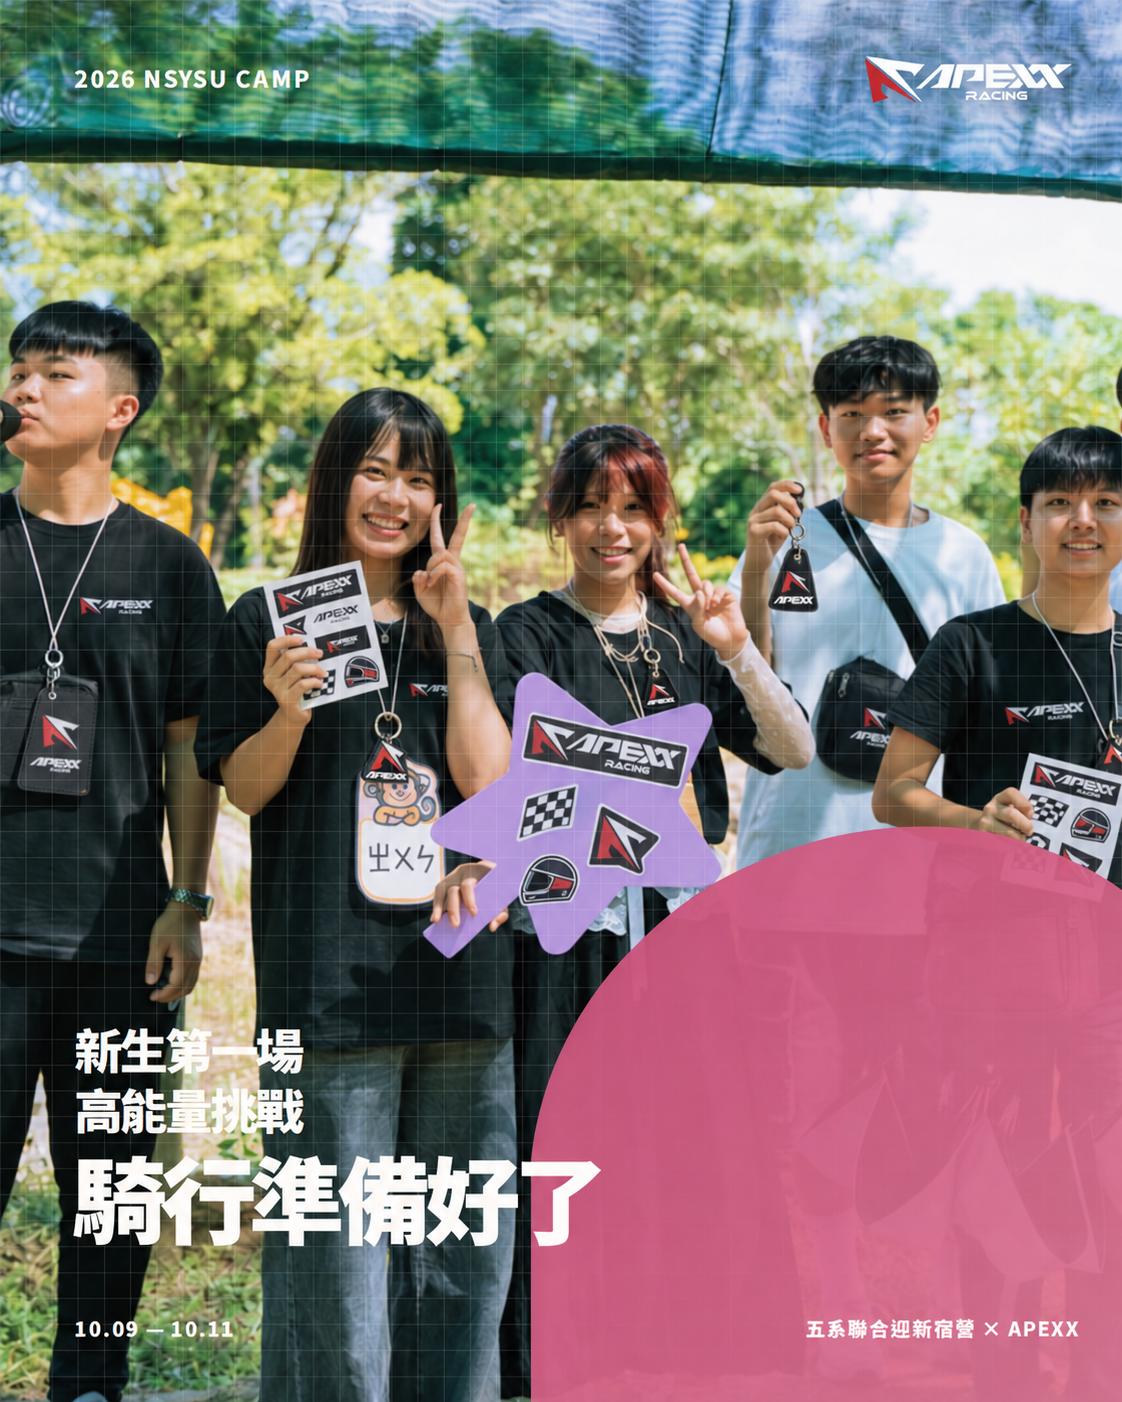
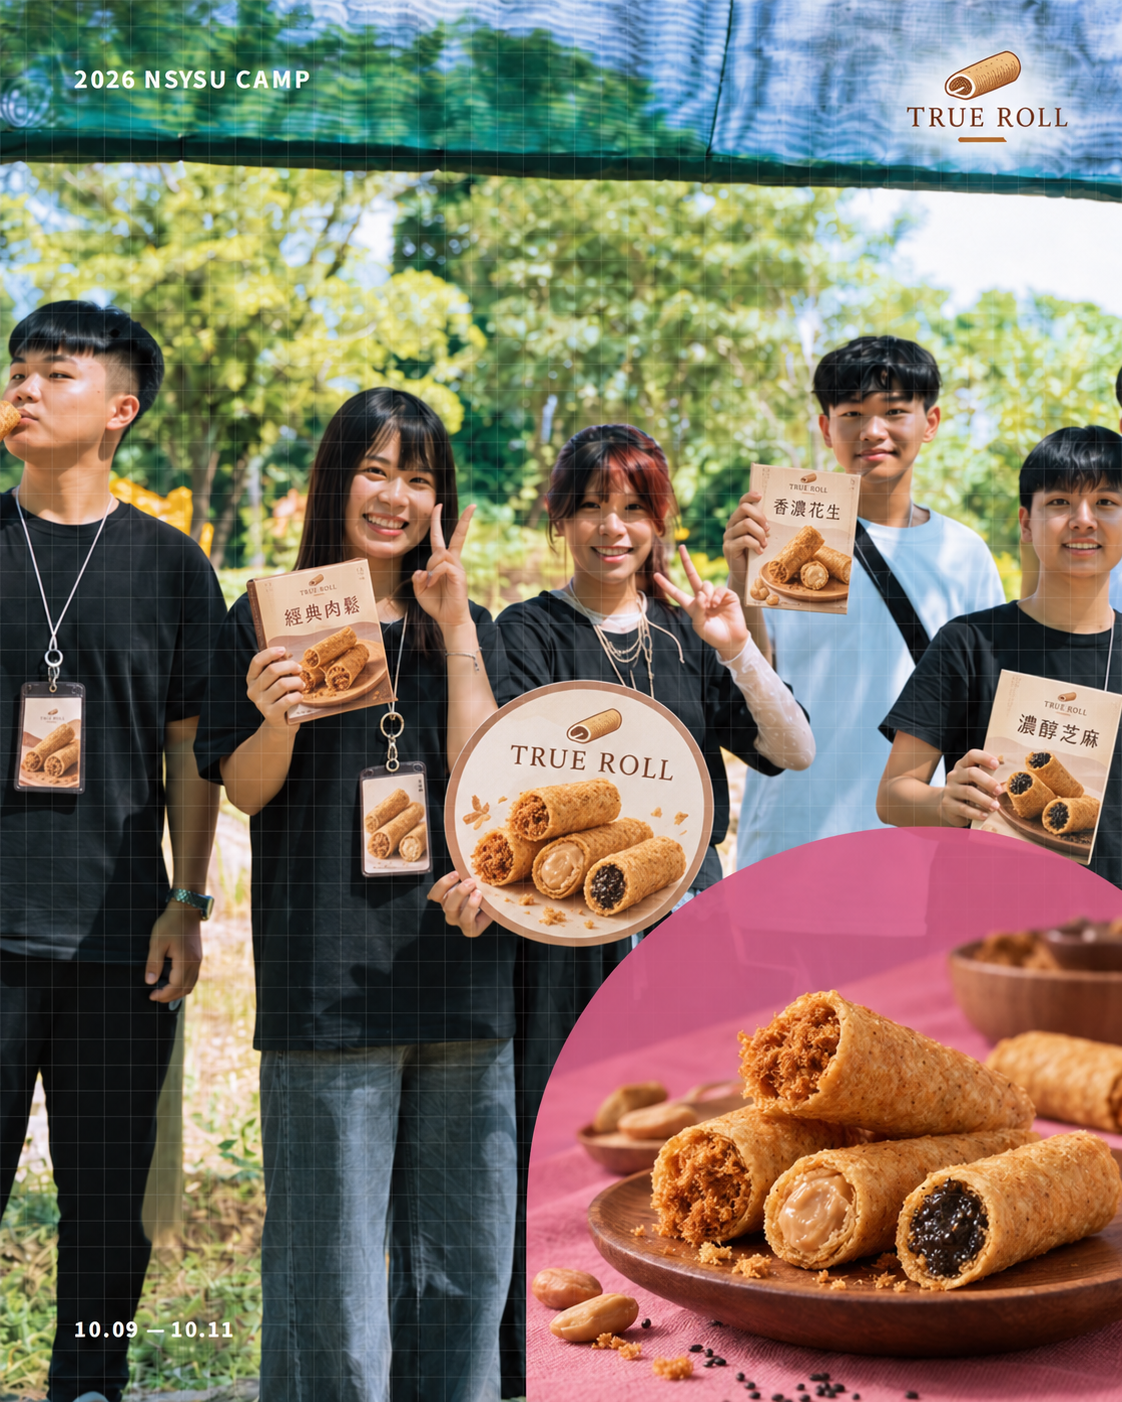
Update True Roll product proposal and post

diff --git a/true-roll/index.html b/true-roll/index.html
@@ -16,8 +16,8 @@
     <header class="proposal-header"><nav class="proposal-nav shell" aria-label="提案頁面導覽"><a class="proposal-brand" href="#overview"><img src="assets/images/logo-avatar.jpg" alt="五系聯合宿營標誌" /><span><b>實心蛋捲 合作提案</b><small>2026 中山五系聯合迎新宿營</small></span></a><button class="nav-toggle" type="button" aria-expanded="false" aria-controls="proposal-menu">頁面選擇</button><div class="proposal-links" id="proposal-menu"><a class="active" href="#overview">活動資訊</a><a href="#collaboration">合作邀請</a><a href="#proposal">合作方案</a><a href="#execution">行程安全</a></div></nav></header>
     <main>
       <section class="proposal-page overview is-active" id="overview" aria-labelledby="overview-title" tabindex="-1"><div class="shell overview-grid"><div class="overview-copy"><p class="eyebrow">PRIVATE PROPOSAL</p><p class="camp-line">國立中山大學・五系聯合迎新宿營</p><h1 id="overview-title"><span>把在地風味</span><em>放進相遇的時刻</em></h1><p class="opening">邀請 實心蛋捲 True Roll 陪五系新生在迎新晚會、闖關與小隊休息的合作情境中，認識指定商品的特色與品牌故事</p><dl class="event-facts"><div><dt>時間</dt><dd>2026.10.09 — 10.11</dd></div><div><dt>地點</dt><dd>中山大學・走馬瀨・安平</dd></div><div><dt>規模</dt><dd>150 人</dd></div></dl><a class="next-link" href="#collaboration">看見合作方式 <span aria-hidden="true">↓</span></a></div><figure class="overview-photo"><img src="assets/images/sponsor-hero.webp" alt="五系聯合宿營學員戶外合照" /><figcaption>活動情境示意｜合作素材與品牌露出將於執行前送交確認</figcaption></figure></div><div class="shell proof-strip"><div><strong>五系編制</strong><span>外文、醫科、光電、機電、生科</span></div><div><strong>三天兩夜</strong><span>破冰、戶外闖關、水大地、晚會與安平探索</span></div><div><strong>完整活動計畫</strong><span>隊輔陪伴、點名、安全說明與緊急應變</span></div></div></section>
-      <section class="proposal-page collaboration" id="collaboration" aria-labelledby="collaboration-title" tabindex="-1"><div class="shell hydration-grid"><figure class="hydration-photo"><img src="assets/images/sponsor-work-together.webp" alt="宿營學員團隊合照" /><figcaption>合作情境示意｜贊助品與宣傳素材將依 實心蛋捲 True Roll 核可內容執行</figcaption></figure><div class="hydration-copy"><p class="eyebrow blue">WHY 實心蛋捲 True Roll</p><h2 id="collaboration-title"><span>讓在地風味成為</span><span>晚會交流的記憶</span></h2><p>我們期待在活動中，以不將產品作為高風險活動或競賽的必要條件的方式，介紹實心蛋捲指定商品與品牌故事。商品實際提供方式、保存條件與現場呈現皆以品牌最終確認為準。</p><a class="source-link" href="https://www.trueroll.com.tw" target="_blank" rel="noopener noreferrer">前往實心蛋捲官方網站 ↗</a><article class="ask-card"><div class="ask-card-title"><span>核心合作邀請</span><strong>實心蛋捲隨身盒小蛋捲</strong><span class="ask-product-detail">80 盒｜活動合作安排</span></div><p>希望邀請 實心蛋捲 True Roll 提供 <b>80 盒</b>，作為福袋、闖關補給或晚會分享情境的合作提案基礎。實際提供方式、場域安排與活動安全規範，皆以品牌最終確認為準。</p><div class="blank-product"><span>合作安排</span><b>依品牌建議的保存、提供與食用方式安排於合適活動時段</b></div><p>若 實心蛋捲 True Roll 希望搭配貼紙、鑰匙圈或其他品牌識別素材，我們也很樂意依品牌提供的內容，規劃合適的活動互動、網站與社群露出；所有呈現方式皆會在執行前送交確認。</p><small>產品規格、適用性、提供方式、品牌素材與露出範圍，均以 實心蛋捲 True Roll 最終確認為準。</small></article><a class="next-link" href="#proposal">看合作方案 <span aria-hidden="true">↓</span></a></div></div></section>
-      <section class="proposal-page partnership" id="proposal" aria-labelledby="proposal-title" tabindex="-1"><div class="shell partnership-heading"><p class="eyebrow">PARTNERSHIP PROPOSAL</p><h2 id="proposal-title">讓實心蛋捲的在地風味成為晚會交流的一部分</h2></div><div class="shell decision-layout"><article class="primary-request"><p>優先合作方案</p><div class="request-number"><strong>實心蛋捲隨身盒小蛋捲<br /><span>80 盒</span></strong></div><ul><li>隨身盒小蛋捲依品牌建議的保存與提供方式安排</li><li>不作為遊戲獎勵，現場亦備有飲水與基本補給</li><li>實際提供與使用方式依品牌及場地規範確認</li><li>活動網站與 Instagram 內容皆於上線前送交核可</li></ul></article></div><div class="shell deliverable-table-wrap"><table class="deliverable-table"><caption>合作內容</caption><thead><tr><th scope="col">合作項目</th><th scope="col">主辦方交付</th><th scope="col">可共同討論</th><th scope="col">回報憑據</th></tr></thead><tbody><tr><th scope="row">活動合作安排</th><td>80 盒僅在依品牌建議的保存、提供與食用方式的前提下，評估安排於活動適合時段。</td><td>產品提供方式、適用性與場地規範。</td><td>執行紀錄與現場照片。</td></tr><tr><th scope="row">品牌識別素材</th><td>若品牌提供貼紙、鑰匙圈或其他宣傳素材，可規劃為互動贈品或核可後的宣傳內容。</td><td>是否提供、素材種類、數量與使用規範。</td><td>現場與素材使用紀錄。</td></tr><tr><th scope="row"><a href="activity-mockup.html" target="_blank" rel="noopener noreferrer">活動官網 ↗</a></th><td>合作頁放置 實心蛋捲 True Roll Logo、官方連結與核可後的簡短介紹。</td><td>Logo 檔、連結與上線前審核。</td><td>線上截圖。</td></tr><tr><th scope="row">Instagram 合作內容</th><td>活動前、現場、活動後各 1 則內容；文案與視覺均先送 實心蛋捲 True Roll 確認。</td><td>素材、標記帳號與文案規範。</td><td>貼文連結與限時動態截圖。</td></tr><tr><th scope="row">成果結案</th><td>活動後 14 日內整理合作執行摘要與公開紀錄。</td><td>指定收件窗口與成果欄位。</td><td>結案 PDF、照片與公開連結。</td></tr></tbody></table></div><div class="shell content-preview" aria-labelledby="content-preview-title"><div class="content-preview-copy"><p class="eyebrow">CONTENT EXAMPLE</p><h3 id="content-preview-title"><span>Instagram</span><span>貼文模擬</span></h3><p>以下以三則貼文呈現合作方向：活動前建立期待、活動中記錄互動、活動後收束回憶。視覺、文案與發布時程皆會於上線前送交 實心蛋捲 True Roll 確認。</p><div class="resource-links"><a class="resource-link" href="https://benson0875.github.io/nsysu-camp-2026-repo/" target="_blank" rel="noopener noreferrer">前往活動官網 ↗</a><a class="resource-link" href="https://www.instagram.com/2026_nsysu_camp/" target="_blank" rel="noopener noreferrer">前往 Instagram ↗</a></div></div><article class="instagram-mockup" aria-label="實心蛋捲 True Roll Instagram 貼文模擬器"><header><img src="assets/images/logo-avatar.jpg" alt="" /><div><b>2026_nsysu_camp</b><small>中山五系聯合迎新宿營</small></div><button type="button" aria-label="更多選項">•••</button></header><div class="instagram-media"><img id="instagram-image" src="assets/instagram/01-before.png" alt="實心蛋捲 True Roll 合作貼文範例一" /><button class="ig-arrow previous" type="button" aria-label="上一張貼文" onclick="window.sponsorShowPost?.(-1); return false;">‹</button><button class="ig-arrow next" type="button" aria-label="下一張貼文" onclick="window.sponsorShowPost?.(1); return false;">›</button></div><div class="instagram-actions"><span aria-hidden="true">♡　◯　➤</span><div class="ig-dots" aria-label="貼文頁數"><button class="is-current" type="button" aria-label="顯示第 1 張範例" onclick="window.sponsorShowPost?.(0, true); return false;"></button><button type="button" aria-label="顯示第 2 張範例" onclick="window.sponsorShowPost?.(1, true); return false;"></button><button type="button" aria-label="顯示第 3 張範例" onclick="window.sponsorShowPost?.(2, true); return false;"></button></div><span aria-hidden="true">⌑</span></div><div class="instagram-caption"><b>2026_nsysu_camp</b><p id="instagram-caption">活動前，我們先把晚會的交流規劃好。所有合作素材均於上線前送實心蛋捲確認。</p><small id="instagram-date">貼文方向一｜活動前</small></div></article></div><div class="shell page-next"><a class="next-link" href="#execution">看活動執行與安全規劃 <span aria-hidden="true">↓</span></a></div></section>
+      <section class="proposal-page collaboration" id="collaboration" aria-labelledby="collaboration-title" tabindex="-1"><div class="shell hydration-grid"><figure class="hydration-photo"><img src="assets/images/sponsor-work-together.webp" alt="宿營學員團隊合照" /><figcaption>合作情境示意｜贊助品與宣傳素材將依 實心蛋捲 True Roll 核可內容執行</figcaption></figure><div class="hydration-copy"><p class="eyebrow blue">WHY 實心蛋捲 True Roll</p><h2 id="collaboration-title"><span>讓在地風味成為</span><span>晚會交流的記憶</span></h2><p>我們期待在活動中，介紹實心蛋捲指定商品與品牌故事。商品實際提供方式、保存條件與現場呈現皆以品牌最終確認為準。</p><a class="source-link" href="https://www.trueroll.com.tw" target="_blank" rel="noopener noreferrer">前往實心蛋捲官方網站 ↗</a><article class="ask-card"><div class="ask-card-title"><span>核心合作邀請</span><strong>經典肉鬆・香濃花生<br />濃醇芝麻</strong><span class="ask-product-detail">各 30 盒｜共 90 盒｜活動合作安排</span></div><p>希望邀請 實心蛋捲 True Roll 提供 <b>經典肉鬆、香濃花生、濃醇芝麻各 30 盒（共 90 盒）</b>，作為福袋、闖關補給或晚會分享情境的合作提案基礎。實際提供方式、場域安排與活動安全規範，皆以品牌最終確認為準。</p><div class="blank-product"><span>合作安排</span><b>依品牌建議的保存、提供與食用方式安排於合適活動時段</b></div><p>若 實心蛋捲 True Roll 希望搭配貼紙、鑰匙圈或其他品牌識別素材，我們也很樂意依品牌提供的內容，規劃合適的活動互動、網站與社群露出；所有呈現方式皆會在執行前送交確認。</p><small>產品規格、適用性、提供方式、品牌素材與露出範圍，均以 實心蛋捲 True Roll 最終確認為準。</small></article><a class="next-link" href="#proposal">看合作方案 <span aria-hidden="true">↓</span></a></div></div></section>
+      <section class="proposal-page partnership" id="proposal" aria-labelledby="proposal-title" tabindex="-1"><div class="shell partnership-heading"><p class="eyebrow">PARTNERSHIP PROPOSAL</p><h2 id="proposal-title">讓實心蛋捲的在地風味成為晚會交流的一部分</h2></div><div class="shell decision-layout"><article class="primary-request"><p>優先合作方案</p><div class="request-number"><strong>三款口味蛋捲<br /><span>各 30 盒・共 90 盒</span></strong></div><ul><li>經典肉鬆、香濃花生、濃醇芝麻各 30 盒，依品牌建議的保存與提供方式安排</li><li>不作為遊戲獎勵，現場亦備有飲水與基本補給</li><li>實際提供與使用方式依品牌及場地規範確認</li><li>活動網站與 Instagram 內容皆於上線前送交核可</li></ul></article></div><div class="shell deliverable-table-wrap"><table class="deliverable-table"><caption>合作內容</caption><thead><tr><th scope="col">合作項目</th><th scope="col">主辦方交付</th><th scope="col">可共同討論</th><th scope="col">回報憑據</th></tr></thead><tbody><tr><th scope="row">活動合作安排</th><td>經典肉鬆、香濃花生、濃醇芝麻各 30 盒（共 90 盒）僅在依品牌建議的保存、提供與食用方式的前提下，評估安排於活動適合時段。</td><td>產品提供方式、適用性與場地規範。</td><td>執行紀錄與現場照片。</td></tr><tr><th scope="row">品牌識別素材</th><td>若品牌提供貼紙、鑰匙圈或其他宣傳素材，可規劃為互動贈品或核可後的宣傳內容。</td><td>是否提供、素材種類、數量與使用規範。</td><td>現場與素材使用紀錄。</td></tr><tr><th scope="row"><a href="https://benson0875.github.io/nsysu-camp-2026-repo/" target="_blank" rel="noopener noreferrer">活動官網 ↗</a></th><td>合作頁放置 實心蛋捲 True Roll Logo、官方連結與核可後的簡短介紹。</td><td>Logo 檔、連結與上線前審核。</td><td>線上截圖。</td></tr><tr><th scope="row">Instagram 合作內容</th><td>活動前、現場、活動後各 1 則內容；文案與視覺均先送 實心蛋捲 True Roll 確認。</td><td>素材、標記帳號與文案規範。</td><td>貼文連結與限時動態截圖。</td></tr><tr><th scope="row">成果結案</th><td>活動後 14 日內整理合作執行摘要與公開紀錄。</td><td>指定收件窗口與成果欄位。</td><td>結案 PDF、照片與公開連結。</td></tr></tbody></table></div><div class="shell content-preview" aria-labelledby="content-preview-title"><div class="content-preview-copy"><p class="eyebrow">CONTENT EXAMPLE</p><h3 id="content-preview-title"><span>Instagram</span><span>貼文模擬</span></h3><p>以下以三則貼文呈現合作方向：活動前建立期待、活動中記錄互動、活動後收束回憶。視覺、文案與發布時程皆會於上線前送交 實心蛋捲 True Roll 確認。</p><div class="resource-links"><a class="resource-link" href="https://benson0875.github.io/nsysu-camp-2026-repo/" target="_blank" rel="noopener noreferrer">前往活動官網 ↗</a><a class="resource-link" href="https://www.instagram.com/2026_nsysu_camp/" target="_blank" rel="noopener noreferrer">前往 Instagram ↗</a></div></div><article class="instagram-mockup" aria-label="實心蛋捲 True Roll Instagram 貼文模擬器"><header><img src="assets/images/logo-avatar.jpg" alt="" /><div><b>2026_nsysu_camp</b><small>中山五系聯合迎新宿營</small></div><button type="button" aria-label="更多選項">•••</button></header><div class="instagram-media"><img id="instagram-image" src="assets/instagram/01-before.png?v=20260924-trueroll1" alt="實心蛋捲 True Roll 合作貼文範例一" /><button class="ig-arrow previous" type="button" aria-label="上一張貼文" onclick="window.sponsorShowPost?.(-1); return false;">‹</button><button class="ig-arrow next" type="button" aria-label="下一張貼文" onclick="window.sponsorShowPost?.(1); return false;">›</button></div><div class="instagram-actions"><span aria-hidden="true">♡　◯　➤</span><div class="ig-dots" aria-label="貼文頁數"><button class="is-current" type="button" aria-label="顯示第 1 張範例" onclick="window.sponsorShowPost?.(0, true); return false;"></button><button type="button" aria-label="顯示第 2 張範例" onclick="window.sponsorShowPost?.(1, true); return false;"></button><button type="button" aria-label="顯示第 3 張範例" onclick="window.sponsorShowPost?.(2, true); return false;"></button></div><span aria-hidden="true">⌑</span></div><div class="instagram-caption"><b>2026_nsysu_camp</b><p id="instagram-caption">活動前，我們先把晚會的交流規劃好。所有合作素材均於上線前送實心蛋捲確認。</p><small id="instagram-date">貼文方向一｜活動前</small></div></article></div><div class="shell page-next"><a class="next-link" href="#execution">看活動執行與安全規劃 <span aria-hidden="true">↓</span></a></div></section>
       <section class="proposal-page execution" id="execution" aria-labelledby="execution-title" tabindex="-1"><div class="shell execution-heading"><p class="eyebrow">EXECUTION &amp; SAFETY</p><h2 id="execution-title">把合作融入活動也守住安全</h2></div><div class="shell schedule-grid"><article><span>DAY 1 / 10.09</span><h3>先認識彼此</h3><p>破冰、夜教、宵夜</p><small>校園內集合與活動，隊輔帶領、點名與安全說明。</small></article><article><span>DAY 2 / 10.10</span><h3>高活動量的一天</h3><p>走馬瀨大地遊戲、水大地、晚會</p><small>抽獎與合作夥伴致謝可安排於晚會等合適環節。</small></article><article><span>DAY 3 / 10.11</span><h3>完成共同旅程</h3><p>結業、團隊活動、安平探索</p><small>戶外活動與移動前皆完成安全說明，結束後返抵中山大學。</small></article></div><div class="shell safety-grid"><article><h3>現場安全</h3><p>飲水、急救箱、點名與醫療聯絡表全程配置。各活動前完成安全說明與器材檢查。</p></article><article><h3>天候與應變</h3><p>雨勢、高溫或重大事件依校方、場地方與政府指示調整。</p></article><article><h3>合作執行原則</h3><p>抽獎與宣傳不影響活動安全與參與者隱私。所有對外品牌文字皆經確認後發布。</p></article></div><div class="shell closing-card"><div><p class="eyebrow">NEXT STEP</p><h2><span>期待與 實心蛋捲 True Roll 一起</span><span>讓相遇留下好的記憶</span></h2></div><p>若 實心蛋捲 True Roll 願意評估本案，我們將依品牌回覆確認贊助商品、素材與交付項目，並提供最終執行版本。</p></div></section>
   </body>
 </html>
